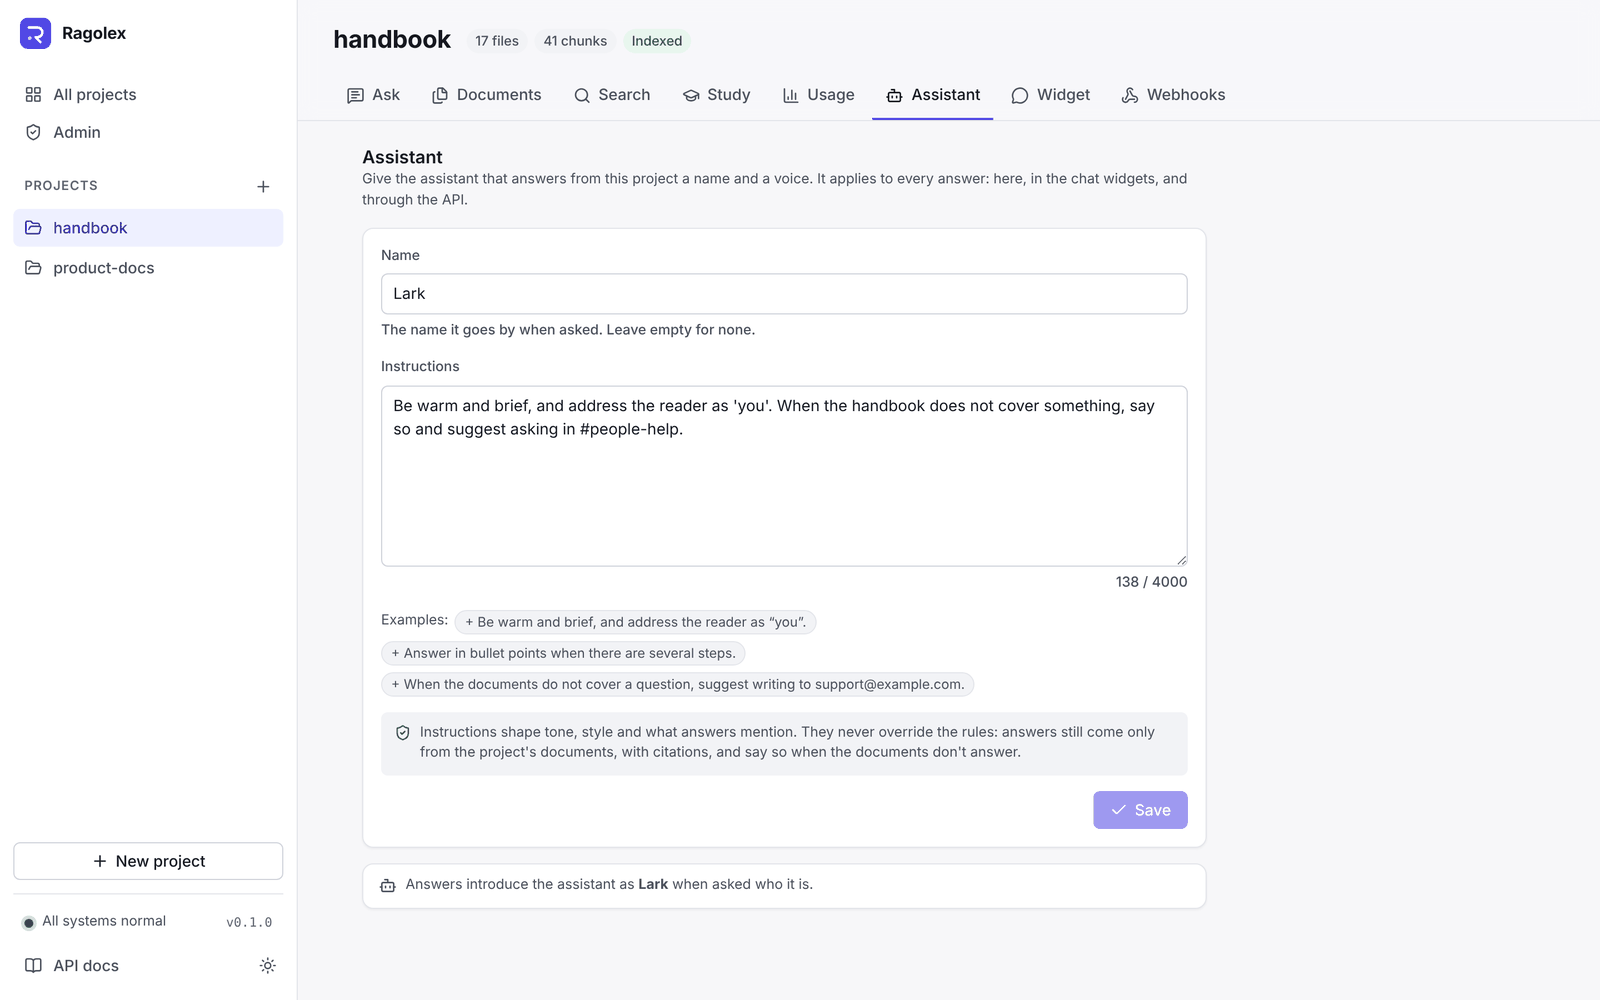
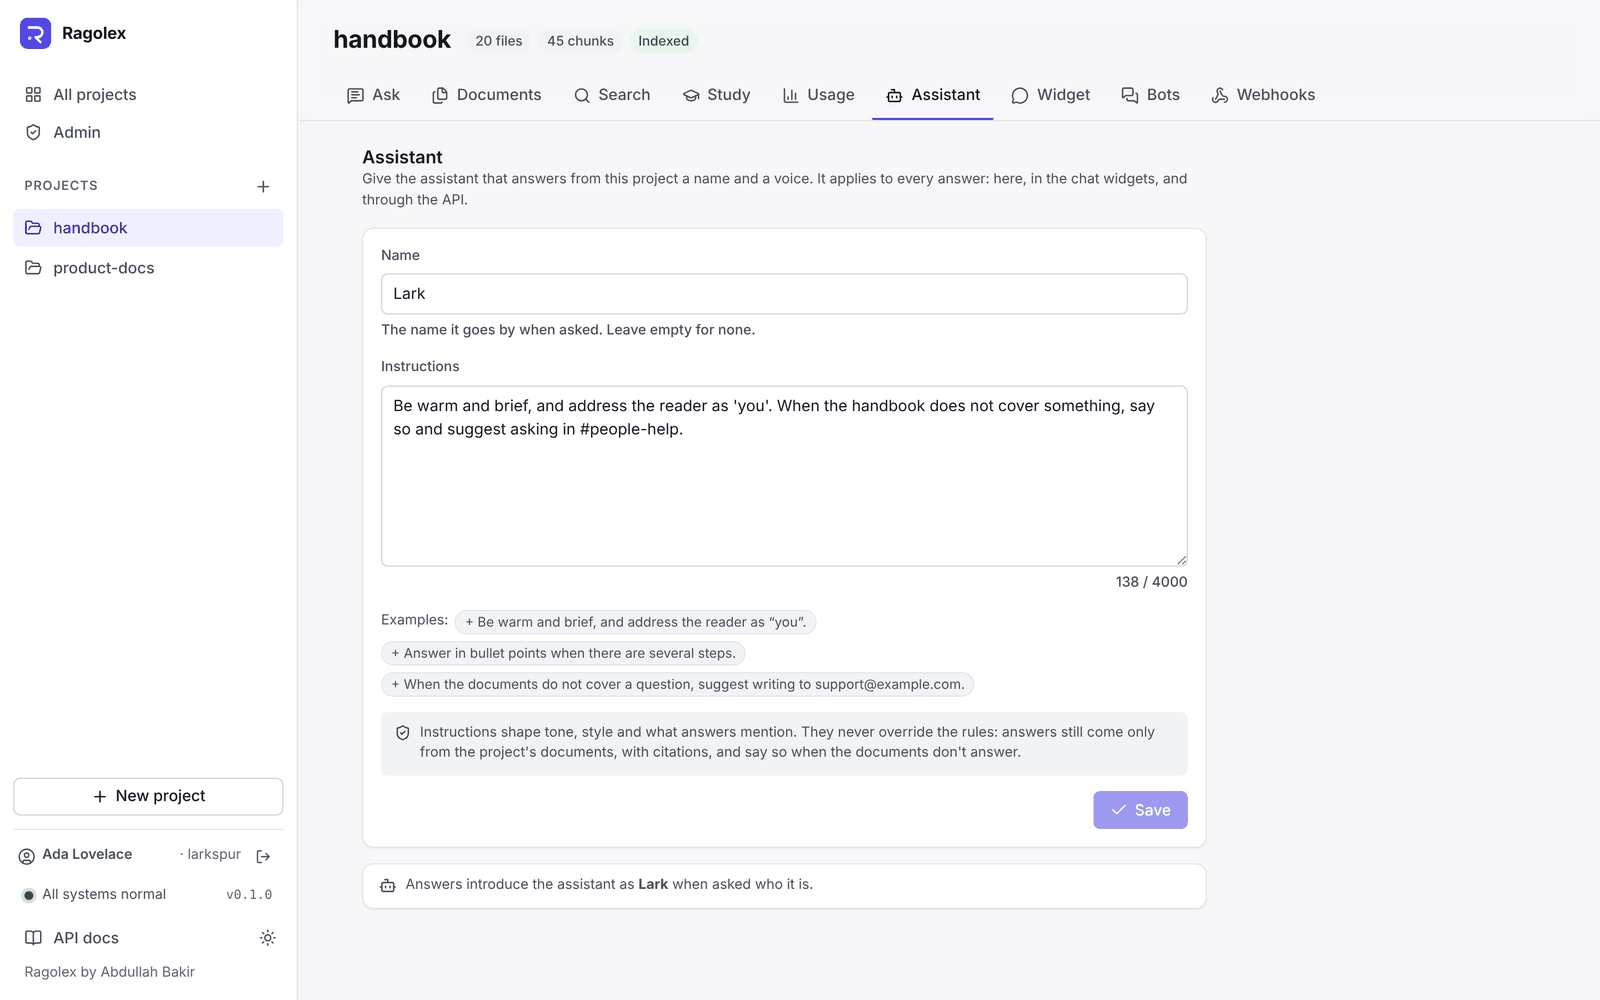
Refresh the web app screenshots, with bots, members, domains and connections
Every screenshot is taken again, signed in as the owner of a demo
workspace. New ones show the Bots page, the Admin page's Members,
Domains and Connections sections, and the sign-in page. The Sources card
now shows a Notion source with its pages. The README gallery gets the
Bots page and Connections. The Admin page's subtitle names domains and
connections too.

diff --git a/frontend/src/views/AdminView.vue b/frontend/src/views/AdminView.vue
@@ -64,7 +64,7 @@ function ratio(used: number, limit: number | null): number | null {
 
 <template>
   <div class="page">
-    <PageHeader title="Admin" :subtitle="me ? `Workspace ${me.tenant}: usage, members, API keys, evaluation scores and the audit log.` : 'Usage, members, API keys, evaluation scores and the audit log.'">
+    <PageHeader title="Admin" :subtitle="me ? `Workspace ${me.tenant}: usage, members, domains, connections, API keys, evaluation scores and the audit log.` : 'Usage, members, domains, connections, API keys, evaluation scores and the audit log.'">
       <template v-if="me" #meta>
         <p class="subtle small">{{ signedInAs }}</p>
       </template>
@@ -89,7 +89,7 @@ function ratio(used: number, limit: number | null): number | null {
 
     <div v-if="me && !isAdmin" class="alert">
       <ShieldAlert :size="18" class="subtle" />
-      <span class="muted">Members, API keys, evaluation scores and the audit log need the <strong>admin</strong> scope: an owner's or an admin's role, or a key with it.</span>
+      <span class="muted">Members, domains, connections, API keys, evaluation scores and the audit log need the <strong>admin</strong> scope: an owner's or an admin's role, or a key with it.</span>
     </div>
     <template v-else-if="me">
       <AdminMembers v-if="me.auth_enabled" :my-role="me.role ?? null" :my-user-id="me.user?.id ?? null" @changed="audit?.refresh()" />

diff --git a/docs/web.md b/docs/web.md
@@ -21,7 +21,7 @@ The web app in `frontend/` is the interface for people: create projects, upload 
 | **Bots** | Let people ask the project in Telegram, Slack or WhatsApp: pick the chat app, follow its setup steps, paste its credentials and give the bot a name and optionally tags, so it answers only from the documents that have them. A Telegram bot connects itself; a Slack or WhatsApp bot shows the webhook URL (and, for WhatsApp, the verify token) to paste into the app's settings, with buttons to copy them. Each bot shows its account in the chat app, when it last got a message and its last problem, if any; it can be turned off and on, or removed after a confirmation (its conversations stay). |
 | **Usage** | The tenant's limits, when it has any: answers this month, storage and cost against their quotas and monthly budget. Its spending over the last 7, 30 or 90 days: a chart of cost or answers per day, and what each project and model cost. Questions asked, how many were answered, tokens and cost for the project, and the rated answers: how many were good and bad, each with its question, the note on it and a link to its conversation. |
 
-![The Sources card: a form to add a website, feed or GitHub repository with its page limit, schedule and tags, then a website opened to list its pages and a feed, each with when it was synced and is next due](media/web-sources.png)
+![The Sources card: a form to add a source with its type, address, page limit, schedule and tags, then a Notion source read through a connection opened to list its pages, a website and a feed, each with when it was synced and is next due](media/web-sources.png)
 
 ![The Search page: a query with its filters (results, minimum score, documents, tags, pages, one per document) and the matching passages, best first, with their scores and the query's words highlighted](media/web-search.png)
 
@@ -37,7 +37,17 @@ The web app in `frontend/` is the interface for people: create projects, upload 
 
 ![The Usage page: questions, answer rate, tokens and cost for the project, the tenant's limits and monthly budget, and a chart of spending per day with the cost per project and model](media/web-usage.png)
 
-![The Admin page: usage this month, the tenant's API keys with their scopes and a form to create one, the evaluation scores of the latest run and every run, and the audit log](media/web-admin.png)
+![The Admin page: usage this month, the workspace's members with their roles, last sign-ins and an open invitation, and its domains with the DNS records to add](media/web-admin.png)
+
+![The Members section: inviting by email with a role, the members with their roles and when they last signed in, and an invitation not accepted yet](media/web-members.png)
+
+![The Domains section: a domain waiting for its TXT record and a verified one, each with the TXT and CNAME records to add and buttons to copy them](media/web-domains.png)
+
+![The Connections section: buttons to connect Notion and Google Drive, the redirect URI to register with each app, and a Google account and a Notion workspace connected, with how many sources use each](media/web-connections.png)
+
+![The Bots page: Slack chosen with its setup steps and fields, and a Slack, a Telegram and a WhatsApp bot with their accounts, tags, last messages and webhook URLs; the WhatsApp bot shows its verify token and its last problem](media/web-bots.png)
+
+![The sign-in page: email and password, a link for a forgotten password, signing in with an API key instead, and a link to create an account](media/web-signin.png)
 
 When the server requires authentication (`AUTH_ENABLED=true`), a page that needs it sends people to **Sign in**, and back to that page after. They sign in with their email and password, or create an account (with a workspace of their own) on **Create an account**. The server keeps the session in an HttpOnly cookie, which the app never sees. **Forgot your password?** emails a link (when the server can send email) to the **Choose a new password** page. An invitation link opens **Join a workspace**: it says who invited whom to which workspace, and joins with a new account, or with the invited email's account once signed in. Tokens from these links are read from the address's `#` part, which browsers never send to a server, and taken out of the address bar at once.
 

diff --git a/README.md b/README.md
@@ -77,11 +77,19 @@ Everything above in the browser: projects, drag-and-drop uploads, conversations 
   </tr>
   <tr>
     <td width="50%"><img src="docs/media/web-usage.png" alt="The Usage page: questions, answer rate, tokens and cost, the tenant's limits and monthly budget, and a chart of spending per day with the cost per project and model."></td>
-    <td width="50%"><img src="docs/media/web-admin.png" alt="The Admin page: usage this month, the tenant's API keys with their scopes, evaluation scores with every run, and the audit log."></td>
+    <td width="50%"><img src="docs/media/web-admin.png" alt="The Admin page: usage this month, the workspace's members with their roles and an open invitation, and its domains with the DNS records to add."></td>
   </tr>
   <tr>
     <td align="center"><sub><b>Usage</b>: spending, limits and budget</sub></td>
-    <td align="center"><sub><b>Admin</b>: API keys, evaluation and audit log</sub></td>
+    <td align="center"><sub><b>Admin</b>: members, domains, keys and audit log</sub></td>
+  </tr>
+  <tr>
+    <td width="50%"><img src="docs/media/web-bots.png" alt="The Bots page: Slack chosen with its setup steps and fields, and three bots (Slack, Telegram and WhatsApp) with their accounts, tags, last messages, webhook URLs and a WhatsApp bot's last problem."></td>
+    <td width="50%"><img src="docs/media/web-connections.png" alt="The Connections section of the Admin page: buttons to connect Notion and Google Drive, the redirect URI to register, and a Notion workspace and a Google account connected, with how many sources use each."></td>
+  </tr>
+  <tr>
+    <td align="center"><sub><b>Bots</b>: answers in Telegram, Slack and WhatsApp</sub></td>
+    <td align="center"><sub><b>Connections</b>: Notion and Google Drive as sources</sub></td>
   </tr>
 </table>
 
